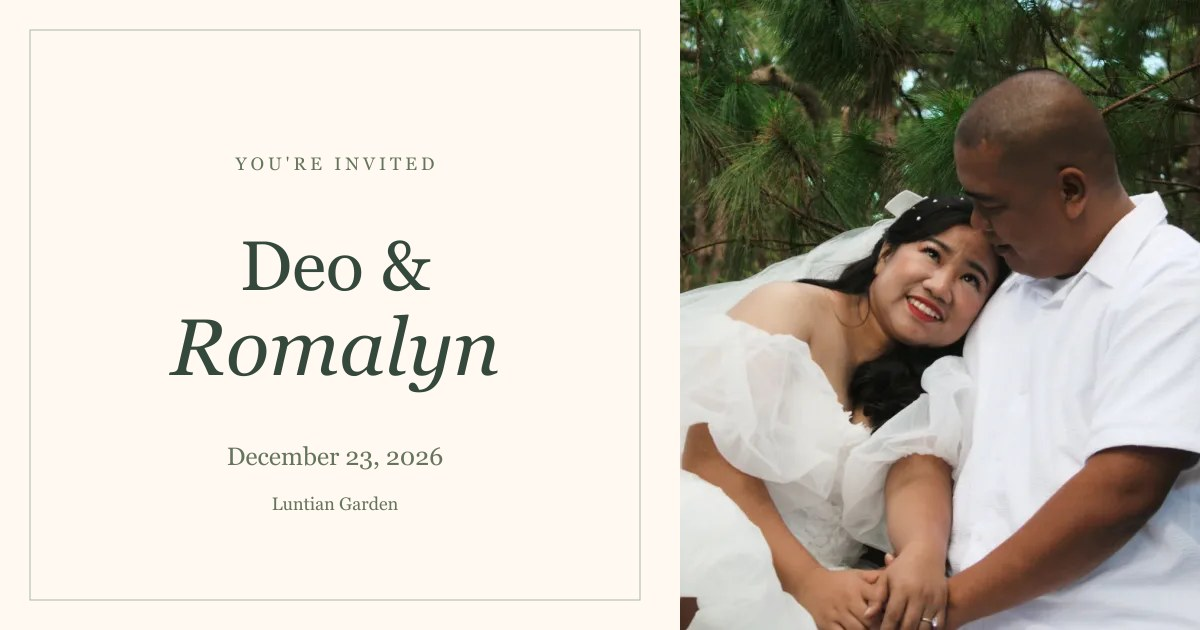
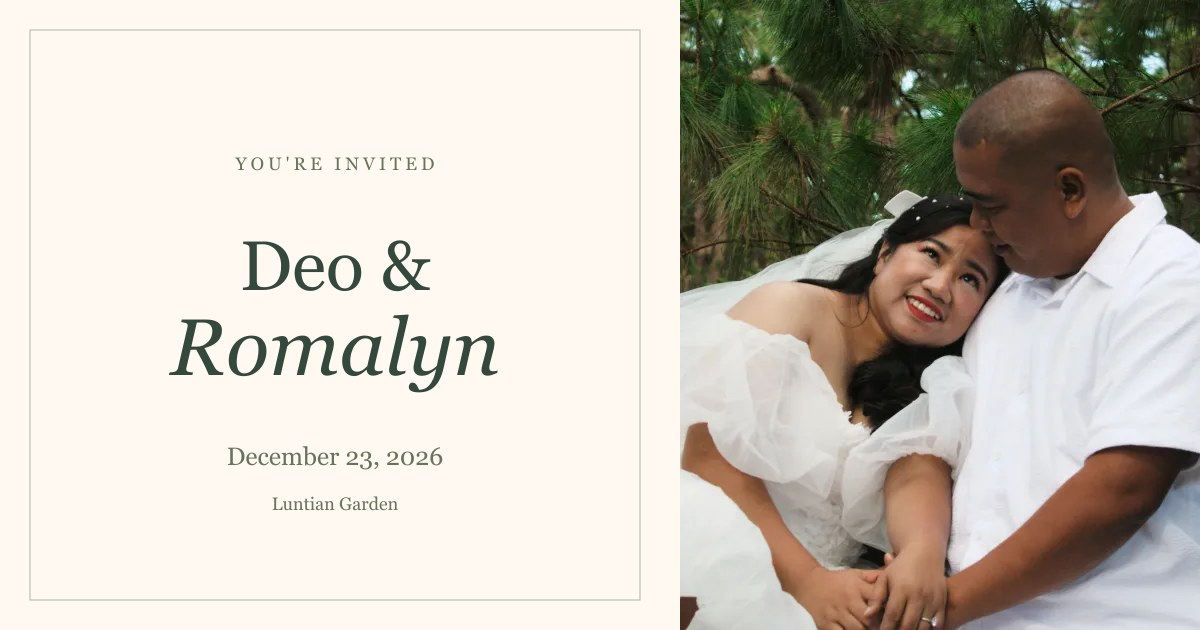
Improve photo resolution and expand wedding gallery

diff --git a/app/globals.css b/app/globals.css
@@ -51,24 +51,28 @@ p { color:var(--muted); }
 .desktop-nav>a:hover { color:#7b866d; }
 .nav-rsvp { display:flex; gap:15px; align-items:center; padding:9px 17px; border:1px solid #acb7a2; }
 .menu-button { display:none; background:none; border:none; padding:10px; }
-.hero { position:relative; min-height:700px; display:grid; grid-template-columns:1.05fr 1fr; align-items:center; gap:45px; padding-block:56px 65px; }
-.hero-copy { z-index:1; padding-bottom:10px; }
-.hero h1 { font-size:clamp(80px,8.2vw,118px); letter-spacing:-4px; line-height:.93; margin:30px 0 27px; }
+.guest-view { position:relative; }
+.guest-view .site-header { position:absolute; top:0; left:50%; transform:translateX(-50%); color:#fff9f2; border-color:#fff9f240; }
+.site-header .monogram span,.site-header .header-date { color:#f1ebdc; }
+.site-header .desktop-nav>a:hover { color:#e5d8bd; }
+.site-header .nav-rsvp { border-color:#fff9f280; }
+.site-header :focus-visible,.hero :focus-visible { outline-color:#fff9f2; }
+.hero { position:relative; isolation:isolate; height:100svh; min-height:760px; max-height:1200px; overflow:hidden; background:#25372c; color:var(--ivory); }
+.hero-backdrop { position:absolute; inset:0; z-index:-2; }
+.hero-backdrop img { object-fit:cover; object-position:50% 43%; }
+.hero-shade { position:absolute; inset:0; z-index:-1; background:linear-gradient(180deg,rgba(14,29,20,.76) 0%,rgba(14,29,20,.50) 20%,rgba(14,29,20,.03) 43%,rgba(14,29,20,.03) 56%,rgba(14,29,20,.65) 81%,rgba(14,29,20,.91) 100%); }
+.hero-copy { height:100%; display:flex; flex-direction:column; justify-content:space-between; align-items:center; text-align:center; padding-block:125px 45px; }
+.hero .eyebrow { color:#fff9f2; font-size:10px; letter-spacing:3px; text-shadow:0 1px 12px #0c1b12; }
+.hero h1 { font-size:clamp(74px,8vw,118px); letter-spacing:-3px; line-height:1.12; margin:13px 0 0; text-shadow:0 2px 30px #10211755; }
 .hero h1:focus { outline:none; }
-.name-second { display:block; white-space:nowrap; }
-.name-second i { font-size:.65em; color:#8c987e; font-weight:400; }
-.hero-message { max-width:290px; font-size:13px; line-height:1.95; }
-.hero-date { margin-top:28px; display:flex; flex-direction:column; gap:3px; }
-.hero-date>span { text-transform:uppercase; letter-spacing:2.3px; font-size:9px; color:#66705c; }
-.hero-date strong { font-family:var(--font-serif); font-weight:500; font-size:26px; }
-.hero .text-link { margin-top:19px; }
-.hero-portrait { position:relative; width:100%; height:555px; padding:14px; margin-top:10px; }
-.portrait-outline { position:absolute; inset:0; border:1px solid #b3bca6; border-radius:48% 48% 2px 2px; transform:rotate(3deg); }
-.portrait-image { position:relative; width:100%; height:100%; border-radius:48% 48% 1px 1px; overflow:hidden; background:#d8dfcd; }
-.portrait-image img { object-fit:cover; }
-.portrait-caption { position:absolute; bottom:-25px; left:0; width:100%; text-align:center; font-family:var(--font-serif); font-size:23px; font-style:italic; transform:rotate(-5deg); }
-.portrait-side { position:absolute; right:-30px; top:51%; writing-mode:vertical-rl; letter-spacing:3px; font-size:8px; color:#64705f; }
-.hero-flower { position:absolute; width:170px; bottom:-37px; left:-165px; transform:rotate(15deg); opacity:.65; }
+.name-second { display:inline; white-space:nowrap; }
+.name-second i { display:inline-block; margin-left:.2em; font-size:.72em; color:#e0dfc9; font-weight:400; }
+.hero-message { max-width:380px; margin-inline:auto; color:#fff9f2; font-size:13px; line-height:1.8; }
+.hero-date { margin-top:17px; display:flex; flex-direction:column; gap:2px; }
+.hero-date>span { text-transform:uppercase; letter-spacing:2.5px; font-size:9px; color:#f0ebdd; }
+.hero-date strong { font-family:var(--font-serif); font-weight:500; font-size:29px; }
+.hero .text-link { margin-top:12px; color:#fff9f2; border-color:#e5e7d290; font-size:11px; }
+.hero .text-link:hover { color:#ece2c9; border-color:#fff9f2; }
 .save-date { padding-block:65px; background:#edf0e7; border-block:1px solid #dce1d3; }
 .date-layout { display:grid; grid-template-columns:1fr 1.1fr; gap:75px; align-items:center; }
 .date-invitation { position:relative; padding-left:55px; }
@@ -90,10 +94,11 @@ p { color:var(--muted); }
 .section-heading>p:last-child:not(.eyebrow) { max-width:390px; margin:19px auto 0; font-size:13px; }
 .gallery-grid { display:grid; grid-template-columns:repeat(6,1fr); gap:28px 24px; }
 .gallery-item { min-width:0; }
-.gallery-item:nth-child(-n+2) { grid-column:span 3; }
-.gallery-item:nth-child(n+3) { grid-column:span 2; }
+.gallery-item { grid-column:span 2; }
+.gallery-item:nth-child(5n+1),.gallery-item:nth-child(5n+2) { grid-column:span 3; }
 .gallery-item button { display:block; position:relative; width:100%; aspect-ratio:1.46; overflow:hidden; border:0; background:#e8e7dc; }
-.gallery-item:nth-child(n+3) button { aspect-ratio:.95; }
+.gallery-item button { aspect-ratio:.95; }
+.gallery-item:nth-child(5n+1) button,.gallery-item:nth-child(5n+2) button { aspect-ratio:1.46; }
 .gallery-item-1 { padding-top:34px; }
 .gallery-item-2 { padding-bottom:34px; }
 .gallery-item-2 button { border-radius:160px 160px 0 0; }
@@ -195,14 +200,15 @@ textarea { resize:vertical; max-height:250px; }
 @keyframes petal-fall { 0% { opacity:0; transform:translateY(-50px) rotate(0); } 20% { opacity:.7; } 100% { opacity:0; transform:translate(70px,55vh) rotate(150deg); } }
 .lightbox { padding:35px; width:min(1100px,95vw); max-width:95vw; max-height:95dvh; border:1px solid #c8cfbb; background:var(--ivory); color:var(--ink); margin:auto; }
 .lightbox::backdrop { background:#182719d9; backdrop-filter:blur(5px); }
-.lightbox-image { position:relative; height:70dvh; width:100%; }
+.lightbox-image { position:relative; height:65dvh; width:100%; }
 .lightbox-close { position:absolute; right:10px; top:7px; z-index:2; }
 .icon-button { display:grid; place-items:center; width:44px; height:44px; border:0; background:var(--ivory); border-radius:50%; }
 .lightbox-controls { display:flex; justify-content:space-between; align-items:center; gap:15px; margin-top:15px; }
 .lightbox-controls p { font:italic 23px var(--font-serif); text-align:center; }
 .lightbox-controls p>span { display:block; font:10px var(--font-sans); margin-top:8px; }
-@media (min-width:1400px) { .hero { min-height:760px; } .hero-portrait { height:610px; } }
-@media (max-width:1050px) { .section-container { width:calc(100% - 72px); } .site-header { width:calc(100% - 64px); height:76px; } .hero { gap:35px; min-height:630px; } .hero h1 { font-size:83px; } .hero-portrait { height:490px; } .hero .eyebrow { font-size:8px; letter-spacing:1.8px; } .rsvp-layout { gap:45px; } .dress-layout { gap:45px; } .dress-illustration>.botanical { width:240px; } .swatches { gap:6px; } .closing { gap:45px; } .date-layout { gap:30px; } .date-countdown { padding-left:30px; } .venue-card { padding:35px 25px; } .header-date { margin-left:25px; } .desktop-nav { gap:20px; } }
+.lightbox-original { display:flex; width:max-content; margin:8px auto 0; font-size:10px; }
+@media (min-width:1800px) { .hero-backdrop img { object-position:50% 48%; } }
+@media (max-width:1050px) { .section-container { width:calc(100% - 72px); } .site-header { width:calc(100% - 64px); height:76px; } .hero { min-height:760px; } .hero h1 { font-size:83px; } .hero-copy { padding-top:120px; } .rsvp-layout { gap:45px; } .dress-layout { gap:45px; } .dress-illustration>.botanical { width:240px; } .swatches { gap:6px; } .closing { gap:45px; } .date-layout { gap:30px; } .date-countdown { padding-left:30px; } .venue-card { padding:35px 25px; } .header-date { margin-left:25px; } .desktop-nav { gap:20px; } }
 @media (max-width:760px) {
   html { scroll-padding-top:30px; }
   .section-container { width:calc(100% - 44px); }
@@ -214,16 +220,20 @@ textarea { resize:vertical; max-height:250px; }
   .monogram { font-size:29px; }
   .mobile-nav { position:absolute; top:71px; left:-20px; right:-20px; padding:15px 25px 23px; background:var(--ivory); border-bottom:1px solid #ccd4c1; box-shadow:0 20px 25px #46573e0d; }
   .mobile-nav a { display:flex; align-items:center; justify-content:space-between; padding:13px 5px; font-size:13px; }
-  .hero { min-height:0; grid-template-columns:1fr; padding-block:39px 55px; gap:38px; text-align:center; }
-  .hero h1 { font-size:clamp(74px,13vw,100px); margin:25px 0 19px; line-height:1; letter-spacing:-3px; }
-  .hero .eyebrow { font-size:8px; letter-spacing:2px; }
-  .hero-message { margin:auto; max-width:290px; font-size:12px; }
-  .hero-date { margin-top:22px; }
-  .hero-date strong { font-size:25px; }
-  .hero .text-link { margin-top:15px; }
-  .hero-portrait { width:88%; height:450px; max-height:120vw; margin:0 auto 30px; padding:11px; }
-  .portrait-side { right:-24px; font-size:7px; }
-  .hero-flower { width:135px; left:-55px; bottom:0; z-index:1; opacity:.7; }
+  .hero { height:auto; min-height:max(790px,100svh); max-height:none; }
+  .hero-backdrop { top:165px; bottom:auto; height:115vw; max-height:600px; }
+  .hero-backdrop img { object-position:53% 42%; }
+  .hero-shade { background:linear-gradient(180deg,#25372c 0%,#25372c 180px,transparent 280px,transparent calc(165px + 83vw),#25372c calc(165px + 115vw)); }
+  .hero-copy { min-height:inherit; padding-block:105px 34px; }
+  .hero h1 { font-size:clamp(48px,11.6vw,85px); letter-spacing:-1.8px; margin-top:12px; }
+  .hero .eyebrow { font-size:7px; letter-spacing:1.9px; }
+  .hero-details { padding-top:calc(115vw - 120px); }
+  .hero-message { max-width:295px; font-size:12px; }
+  .hero-date { margin-top:16px; }
+  .hero-date strong { font-size:28px; }
+  .hero .text-link { margin-top:12px; }
+  .site-header .mobile-nav { color:var(--ink); }
+  .site-header .mobile-nav :focus-visible { outline-color:var(--ink); }
   .save-date { padding-block:45px; }
   .date-layout { grid-template-columns:1fr; gap:32px; text-align:center; }
   .date-invitation { padding-left:0; }
@@ -237,9 +247,9 @@ textarea { resize:vertical; max-height:250px; }
   .section-heading>p:last-child:not(.eyebrow) { font-size:12px; max-width:300px; }
   .gallery-grid { grid-template-columns:1fr 1fr; gap:25px 15px; }
   .gallery-item:nth-child(n) { grid-column:span 1; padding:0; }
-  .gallery-item:first-child { grid-column:span 2; }
+  .gallery-item:nth-child(-n+2) { grid-column:span 2; }
   .gallery-item:nth-child(n) button { aspect-ratio:.8; }
-  .gallery-item:first-child button { aspect-ratio:1.45; }
+  .gallery-item:nth-child(-n+2) button { aspect-ratio:1.45; }
   .gallery-item figcaption { font-size:19px; }
   .photo-plus { width:30px; height:30px; bottom:9px; right:9px; }
   .venue-layout { grid-template-columns:1fr; gap:28px; }
@@ -289,10 +299,22 @@ textarea { resize:vertical; max-height:250px; }
   .lightbox-image { height:60dvh; }
   .lightbox-controls p { font-size:21px; }
 }
-@media (max-width:360px) { .header-date { letter-spacing:.8px; } .hero h1 { font-size:69px; } .envelope { width:250px; height:160px; } .wax-seal { top:55px; } .entrance h1 { font-size:36px; } .entrance-date span { padding-inline:5px; } }
+@media (min-width:761px) and (max-width:1050px) and (orientation:portrait) {
+  .hero { min-height:max(1040px,100svh); height:auto; max-height:none; }
+  .hero-backdrop { top:180px; bottom:auto; height:660px; }
+  .hero-backdrop img { object-position:53% 42%; }
+  .hero-shade { background:linear-gradient(180deg,#25372c 0%,#25372c 190px,transparent 300px,transparent 680px,#25372c 840px); }
+  .hero-copy { min-height:inherit; padding-block:125px 40px; }
+}
+@media (min-width:761px) and (max-height:850px) {
+  .hero-copy { padding-top:100px; }
+  .hero h1 { font-size:88px; }
+}
+@media (max-width:360px) { .header-date { letter-spacing:.8px; } .hero h1 { font-size:43px; } .envelope { width:250px; height:160px; } .wax-seal { top:55px; } .entrance h1 { font-size:36px; } .entrance-date span { padding-inline:5px; } }
 @media (prefers-reduced-motion:no-preference) {
   .guest-view.is-open .hero-copy { animation:hero-enter 1s .1s both; }
-  .guest-view.is-open .hero-portrait { animation:hero-enter 1.3s .25s both; }
+  .guest-view.is-open .hero-backdrop { animation:photo-enter 1.6s ease-out both; }
+  @keyframes photo-enter { from { opacity:.6; transform:scale(1.025); } to { opacity:1; transform:scale(1); } }
   @keyframes hero-enter { from { opacity:0; transform:translateY(22px); } to { opacity:1; transform:translateY(0); } }
 }
 @media (prefers-reduced-motion:reduce) { html { scroll-behavior:auto; } *,*::before,*::after { animation:none!important; transition:none!important; } }

diff --git a/app/page.tsx b/app/page.tsx
@@ -10,10 +10,13 @@ import { RsvpForm } from "@/components/rsvp-form";
 
 export default function Home() {
   return <InvitationShell><main id="main">
-    <section id="home" className="hero section-container">
-      <div className="hero-copy"><p className="eyebrow">A day for love. A lifetime together.</p><h1 id="couple-names" tabIndex={-1}>{wedding.names.first}<span className="name-second"><i>&</i> {wedding.names.second}</span></h1><p className="hero-message">{wedding.welcome}</p><div className="hero-date"><span>{wedding.dayLabel}</span><strong>{wedding.dateLabel}</strong></div><a className="text-link" href="#the-day">Discover the day <ArrowUpRight size={16} /></a></div>
-      <div className="hero-portrait"><div className="portrait-outline" /><div className="portrait-image"><Image src={wedding.photos.hero.src} alt={wedding.photos.hero.alt} fill priority fetchPriority="high" sizes="(max-width: 760px) 86vw, 45vw" style={{ objectPosition: "48% 48%" }} /></div><span className="portrait-caption">It was always you.</span><span className="portrait-side">THE WEDDING OF DEO & ROMALYN</span></div>
-      <Botanical className="hero-flower" />
+    <section id="home" className="hero">
+      <div className="hero-backdrop"><Image src={wedding.photos.hero.src} alt={wedding.photos.hero.alt} fill loading="eager" fetchPriority="high" quality={95} sizes="(max-width: 760px) 173vw, (max-width: 1050px) 150vw, 100vw" /></div>
+      <div className="hero-shade" aria-hidden="true" />
+      <div className="hero-copy section-container">
+        <div className="hero-heading"><p className="eyebrow">A day for love. A lifetime together.</p><h1 id="couple-names" tabIndex={-1}>{wedding.names.first}<span className="name-second"><i>&</i> {wedding.names.second}</span></h1></div>
+        <div className="hero-details"><p className="hero-message">{wedding.welcome}</p><div className="hero-date"><span>{wedding.dayLabel}</span><strong>{wedding.dateLabel}</strong></div><a className="text-link" href="#the-day">Discover the day <ArrowUpRight size={16} /></a></div>
+      </div>
     </section>
 
     <section className="save-date" aria-labelledby="date-title"><Reveal className="section-container date-layout"><div className="date-invitation"><Flower2 size={30} strokeWidth={1} /><h2 id="date-title">Keep this day<br /><em>close to your heart.</em></h2><a className="text-link" href="/calendar" download="deo-and-romalyn.ics"><CalendarDays size={16} /> Save to calendar <ArrowUpRight size={15} /></a></div><div className="date-countdown"><p className="date-numerals">{wedding.dateNumerals[0]} <span>/</span> {wedding.dateNumerals[1]} <span>/</span> {wedding.dateNumerals[2]}</p><Countdown /></div></Reveal></section>
@@ -26,6 +29,6 @@ export default function Home() {
 
     <section id="rsvp" className="rsvp-section section-space"><div className="section-container rsvp-layout"><Reveal className="rsvp-copy"><span className="rsvp-script">Will you join us?</span><h2>A place in our day.<br /><em>A place in our hearts.</em></h2><p>We would love to celebrate with you. Online RSVP will open here once the invitation details are ready.</p><p className="rsvp-contact">For now, please contact us directly to let us know if you can make it.</p><div className="rsvp-signature">{wedding.names.first} <i>&</i> {wedding.names.second}</div><Botanical className="rsvp-flower" /></Reveal><Reveal delay={0.1}><RsvpForm /></Reveal></div></section>
 
-    <section className="closing section-container section-space"><Reveal className="closing-photo"><Image src={wedding.photos.closing.src} alt={wedding.photos.closing.alt} fill sizes="(max-width: 760px) 90vw, 60vw" /></Reveal><Reveal className="closing-copy"><Flower2 size={28} strokeWidth={1} /><h2>We can&apos;t wait<br /><em>to see you.</em></h2><p>{wedding.closing}</p><span className="closing-names">{wedding.names.first} & {wedding.names.second}</span><span className="closing-date">{wedding.dateLabel}</span></Reveal></section>
+    <section className="closing section-container section-space"><Reveal className="closing-photo"><Image src={wedding.photos.closing.src} alt={wedding.photos.closing.alt} fill quality={95} sizes="(max-width: 760px) 100vw, 70vw" /></Reveal><Reveal className="closing-copy"><Flower2 size={28} strokeWidth={1} /><h2>We can&apos;t wait<br /><em>to see you.</em></h2><p>{wedding.closing}</p><span className="closing-names">{wedding.names.first} & {wedding.names.second}</span><span className="closing-date">{wedding.dateLabel}</span></Reveal></section>
   </main></InvitationShell>;
 }

diff --git a/config/wedding.ts b/config/wedding.ts
@@ -21,15 +21,22 @@ export const wedding = {
   dressCode: "Formal or semi-formal attire in soft pastel colors.",
   rsvp: { mode: "preview" as const, deadline: null, allowedGuests: null as number | null },
   photos: {
-    hero: { src: "/images/hero.webp", alt: "Romalyn leaning on Deo as he kisses her forehead, seated together in the garden.", caption: "Together, always." },
+    hero: { src: "/images/high-resolution/forest-wedding.webp", alt: "Deo and Romalyn holding hands and looking at each other among the pine trees, dressed in white.", caption: "Together, always." },
     gallery: [
-      { src: "/images/garden-walk.webp", alt: "Deo bowing to kiss Romalyn's hand on a garden stairway in matching blush outfits.", caption: "Hand in hand." },
-      { src: "/images/laughter.webp", alt: "Deo and Romalyn laughing together on a garden bench in white outfits.", caption: "The little moments." },
-      { src: "/images/pink-portrait.webp", alt: "Romalyn resting her head on Deo's shoulder with a bouquet of pink roses.", caption: "Right here with you." },
-      { src: "/images/forest.webp", alt: "Deo and Romalyn sitting back to back on a sunlit forest lawn.", caption: "Our kind of afternoon." },
-      { src: "/images/blue.webp", alt: "Deo and Romalyn touching foreheads among the pine trees in powder blue outfits.", caption: "A moment for us." }
+      { src: "/images/high-resolution/garden-walk.webp", alt: "Deo bowing to kiss Romalyn's hand on a garden stairway in matching blush outfits.", caption: "Hand in hand." },
+      { src: "/images/high-resolution/laughter.webp", alt: "Deo and Romalyn laughing together on a garden bench in white outfits.", caption: "The little moments." },
+      { src: "/images/high-resolution/pink-portrait.webp", alt: "Romalyn resting her head on Deo's shoulder with a bouquet of pink roses.", caption: "Right here with you." },
+      { src: "/images/high-resolution/forest.webp", alt: "Deo and Romalyn sitting back to back on a sunlit forest lawn.", caption: "Our kind of afternoon." },
+      { src: "/images/high-resolution/blue.webp", alt: "Deo and Romalyn touching foreheads among the pine trees in powder blue outfits.", caption: "A moment for us." },
+      { src: "/images/high-resolution/hero.webp", alt: "Romalyn leaning on Deo as he kisses her forehead on a garden bench.", caption: "It was always you." },
+      { src: "/images/high-resolution/ring-detail.webp", alt: "A close view of Romalyn's ring as her hand rests on Deo's shoulder.", caption: "A promise to keep." },
+      { src: "/images/high-resolution/veil.webp", alt: "Romalyn laughing beside Deo as her veil lifts in the air among the pine trees.", caption: "You make me smile." },
+      { src: "/images/high-resolution/bamboo-walk.webp", alt: "Deo and Romalyn walking hand in hand along a path surrounded by tall bamboo.", caption: "Wherever we go." },
+      { src: "/images/high-resolution/flower-garden.webp", alt: "Deo and Romalyn together on a garden path surrounded by pink flowers.", caption: "Among the flowers." },
+      { src: "/images/high-resolution/forest-embrace.webp", alt: "Deo embracing Romalyn from behind as she smiles in a sunlit forest.", caption: "My favorite person." },
+      { src: "/images/high-resolution/blue-handkiss.webp", alt: "Deo kissing Romalyn's hand beneath the pine trees, both wearing powder blue.", caption: "With all my love." }
     ] satisfies WeddingPhoto[],
-    closing: { src: "/images/together.webp", alt: "Deo and Romalyn sharing a kiss in a clearing surrounded by pine trees.", caption: "A new chapter." }
+    closing: { src: "/images/high-resolution/together.webp", alt: "Deo and Romalyn sharing a kiss in a clearing surrounded by pine trees.", caption: "A new chapter." }
   },
   palette: [
     { name: "Sage", hex: "#A8BBA3" }, { name: "Blush", hex: "#F4D6D6" },

diff --git a/components/gallery.tsx b/components/gallery.tsx
@@ -1,7 +1,7 @@
 "use client";
 import Image from "next/image";
 import { useEffect, useRef, useState } from "react";
-import { ArrowLeft, ArrowRight, Plus, X } from "lucide-react";
+import { ArrowLeft, ArrowRight, ArrowUpRight, Plus, X } from "lucide-react";
 import { wedding } from "@/config/wedding";
 export function Gallery() {
   const [selected, setSelected] = useState<number | null>(null);
@@ -17,8 +17,8 @@ export function Gallery() {
   }, [selected]);
   function close() { const previous = selected; dialog.current?.close(); setSelected(null); if (previous !== null) triggers.current[previous]?.focus(); }
   function next(step: number) { setSelected(current => current === null ? 0 : (current + step + photos.length) % photos.length); }
-  return <><div className="gallery-grid">{photos.map((photo, i) => <figure key={photo.src} className={`gallery-item gallery-item-${i + 1}`}><button ref={el => { triggers.current[i] = el; }} onClick={() => setSelected(i)} aria-label={`Enlarge photo: ${photo.alt}`}><Image src={photo.src} alt={photo.alt} fill sizes={i < 2 ? "(max-width: 600px) 90vw, 50vw" : "(max-width: 600px) 90vw, 33vw"} /><span className="photo-plus"><Plus size={19} /></span></button><figcaption>{photo.caption}</figcaption></figure>)}</div>
+  return <><div className="gallery-grid">{photos.map((photo, i) => <figure key={photo.src} className={`gallery-item gallery-item-${i + 1}`}><button ref={el => { triggers.current[i] = el; }} onClick={() => setSelected(i)} aria-label={`Enlarge photo: ${photo.alt}`}><Image src={photo.src} alt={photo.alt} fill quality={95} sizes="(max-width: 760px) 100vw, (max-width: 1200px) 65vw, 800px" /><span className="photo-plus"><Plus size={19} /></span></button><figcaption>{photo.caption}</figcaption></figure>)}</div>
     <dialog ref={dialog} className="lightbox" aria-label="Couple photographs" onCancel={e => { e.preventDefault(); close(); }} onClick={e => { if (e.target === e.currentTarget) close(); }} onKeyDown={e => { if (e.key === "ArrowRight") next(1); if (e.key === "ArrowLeft") next(-1); }}>
-      {selected !== null && <><button className="lightbox-close icon-button" aria-label="Close photo viewer" onClick={close}><X /></button><div className="lightbox-image"><Image src={photos[selected].src} alt={photos[selected].alt} fill sizes="90vw" style={{ objectFit: "contain" }} /></div><div className="lightbox-controls"><button className="icon-button" aria-label="Previous photo" onClick={() => next(-1)}><ArrowLeft /></button><p aria-live="polite">{photos[selected].caption}<span>{selected + 1} / {photos.length}</span></p><button className="icon-button" aria-label="Next photo" onClick={() => next(1)}><ArrowRight /></button></div></>}
+      {selected !== null && <><button className="lightbox-close icon-button" aria-label="Close photo viewer" onClick={close}><X /></button><div className="lightbox-image"><Image src={photos[selected].src} alt={photos[selected].alt} fill unoptimized style={{ objectFit: "contain" }} /></div><div className="lightbox-controls"><button className="icon-button" aria-label="Previous photo" onClick={() => next(-1)}><ArrowLeft /></button><p aria-live="polite">{photos[selected].caption}<span>{selected + 1} / {photos.length}</span></p><button className="icon-button" aria-label="Next photo" onClick={() => next(1)}><ArrowRight /></button></div><a className="lightbox-original text-link" href={photos[selected].src} target="_blank" rel="noreferrer">View full-resolution photo <ArrowUpRight size={14} /></a></>}
     </dialog></>;
 }

diff --git a/next.config.ts b/next.config.ts
@@ -2,7 +2,7 @@ import type { NextConfig } from "next";
 const config: NextConfig = {
   turbopack: { root: process.cwd() },
   outputFileTracingRoot: process.cwd(),
-  images: { formats: ["image/avif", "image/webp"] },
+  images: { formats: ["image/webp"], qualities: [75, 85, 90, 95], deviceSizes: [640, 750, 828, 1080, 1200, 1600, 1920, 2560, 3840] },
   poweredByHeader: false,
   async headers() {
     return [{ source: "/(.*)", headers: [

diff --git a/README.md b/README.md
@@ -22,7 +22,7 @@ npm start
 
 `config/wedding.ts` contains the names, date, timezone, venue names, event times, verified map links, invitation messages, selected photographs, dress palette and RSVP settings. Event times and maps remain `null` until confirmed. The calendar intentionally creates an all-day event. The countdown targets the start of December 23, 2026 in Asia/Manila, not an invented ceremony time.
 
-Photographs are in `public/images`. Original full-resolution photos stay in `WEDDING PICTURES` and are excluded from Git and deployment. All 65 provided images were reviewed using the four contact sheets in `.review`. Seven photos were selected across the four shoots. The hero uses `IMG_3909.jpg`; the gallery includes `IMG_3747-2.jpg`, `IMG_3906.jpg`, `IMG_3789.jpg`, `IMG_4054.jpg` and `IMG_4127.jpg`; the closing uses `IMG_4011-2.jpg`. Resizing preserves orientation and natural colors; no faces were generated or retouched.
+Photographs are in `public/images`. Original full-resolution photos stay in `WEDDING PICTURES` and are excluded from Git and deployment. All 65 provided images were reviewed using the four contact sheets in `.review`. Fourteen photos were selected across the four shoots. The full-width homepage background uses `IMG_3929.jpg`, preserved at the full 5,992 × 3,995 pixels supplied by the owner. Desktop, phone and portrait tablet layouts use separate framing to keep both people visible. The gallery contains 12 photographs, including the former hero portrait; the closing uses `IMG_4011-2.jpg`. The complete source list is in `scripts/prepare-assets.mjs`. All selected photos retain their original pixel dimensions in quality-96 WebP files under `public/images/high-resolution`. Responsive page images use quality 95 with sizes that account for their crops and high-density screens. The gallery viewer loads the full-resolution file and includes a link for closer inspection. No faces were generated or retouched.
 
 `scripts/prepare-assets.mjs` creates optimized WebP derivatives and the social sharing image from those originals. The generated botanical illustration lives in `public/decorations/botanical.webp`; see `docs/ASSETS.md` for its source and prompt. Typography is bundled locally with `next/font/local`, so guests do not need to connect to Google Fonts.
 
@@ -49,6 +49,8 @@ npm run build
 ```
 
 With the production server running and Google Chrome installed, run `node scripts/check-browser.mjs`. It checks desktop and mobile layouts, opening and replaying the envelope, reduced motion, gallery keyboard navigation, RSVP validation, duplicate preview protection, calendar dates, the disabled RSVP API and automated accessibility. Screenshots and the result JSON go into `.review`, which is excluded from Git.
+
+Run `node scripts/check-photos.mjs` to check image delivery at 2× pixel density on desktop, tablet and phone layouts. It verifies crop resolution, all 12 gallery images, full-resolution viewer dimensions and horizontal overflow.
 
 ## Repository and deployment
 

diff --git a/docs/VERIFICATION.md b/docs/VERIFICATION.md
@@ -5,12 +5,14 @@
 - ESLint: passed without warnings.
 - Logic checks: 2 passed, covering Philippine midnight and RSVP validation.
 - Browser checks: passed in Chrome at 320, 390, 768 and 1440 CSS pixels.
+- Photo update: all 12 gallery images loaded at each tested viewport. Separate 2× display checks confirmed that hero images meet the pixel resolution needed for their visible crops: 3,840 pixels delivered on desktop, 2,560 on tablet, and 1,600 / 1,200 on the tested phones.
+- The enlarged gallery photo retained its native 3,885 × 5,827 dimensions, and the full-resolution link points directly to that file. Desktop, portrait tablet and phone hero screenshots were visually reviewed.
 - Checked entrance opening and replay, menu navigation, gallery arrow/Escape controls, reduced motion, RSVP validation and repeat-preview prevention.
 - Calendar: December 23, 2026 all-day event, exclusive end date December 24.
 - RSVP API: returns 503 and never claims to store a response.
 - Runtime errors: none in the tested journeys.
 - axe WCAG A/AA: zero violations on the entrance and main page.
-- Mobile Lighthouse baseline: performance 85, best practices 100, CLS 0. The baseline accessibility score was 95 before the seal contrast was corrected; the subsequent axe check passes. SEO was 60 with intentional noindex and a modal invitation entrance. These local lab results are not a deployed-site measurement.
+- Earlier mobile Lighthouse baseline, before the full-resolution photo update: performance 85, best practices 100, CLS 0. The baseline accessibility score was 95 before the seal contrast was corrected; the subsequent axe check passes. SEO was 60 with intentional noindex and a modal invitation entrance. These local lab results are not a deployed-site measurement, and performance has not been remeasured for the larger photographs.
 - Production dependency audit: zero known vulnerabilities. The documented upstream development lint dependency advisory remains.
 
 Detailed screenshots and machine-readable reports are in .review. These checks ran locally; no Vercel deployment was performed.

diff --git a/docs/ASSETS.md b/docs/ASSETS.md
@@ -1,6 +1,6 @@
 # Image sources
 
-The couple's photographs were supplied by the owner. Originals are preserved in `WEDDING PICTURES`. The production site uses seven optimized derivatives, plus a social preview assembled from the selected hero photograph and text.
+The couple's photographs were supplied by the owner. Originals are preserved in `WEDDING PICTURES`. The production site uses fourteen optimized derivatives, plus a social preview assembled from the seated portrait and text. The homepage background is `IMG_3929.jpg`, supplied from the owner's LightCraft Exports folder; its SHA-256 matches the existing project original. All fourteen photographs retain their native pixel dimensions (up to 6,000 pixels) and use WebP quality 96. The hero retains its full 5,992 × 3,995 pixels. Next.js serves responsive page versions at quality 95, with crop-aware sizing for high-density displays. The gallery viewer serves the native-resolution file directly and provides a full-resolution link. New asset URLs prevent older, smaller exports from being reused from browser caches. The visible detail is limited by the original photograph, and no generative changes were made to the couple's faces.
 
 The watercolor accent was created with the built-in imagegen tool and saved to `public/decorations/botanical.webp`. It is decorative artwork, not a photograph of either wedding venue.
 

diff --git a/AGENTS.md b/AGENTS.md
@@ -1,0 +1,9 @@
+<!-- BEGIN:nextjs-agent-rules -->
+
+## This is NOT the Next.js you know
+
+This version has breaking changes — APIs, conventions, and file structure may all differ from your training data. Read the relevant guide in `node_modules/next/dist/docs/` (resolved from this file's directory; in monorepos the `next` package may not be visible from the repo root) before writing any code. Heed deprecation notices.
+
+This block is written and re-added by `next dev` — verify at `node_modules/next/dist/server/lib/generate-agent-files.js`. Removing it from a diff only re-creates the uncommitted change; committing it with your work keeps the tree clean.
+
+<!-- END:nextjs-agent-rules -->
